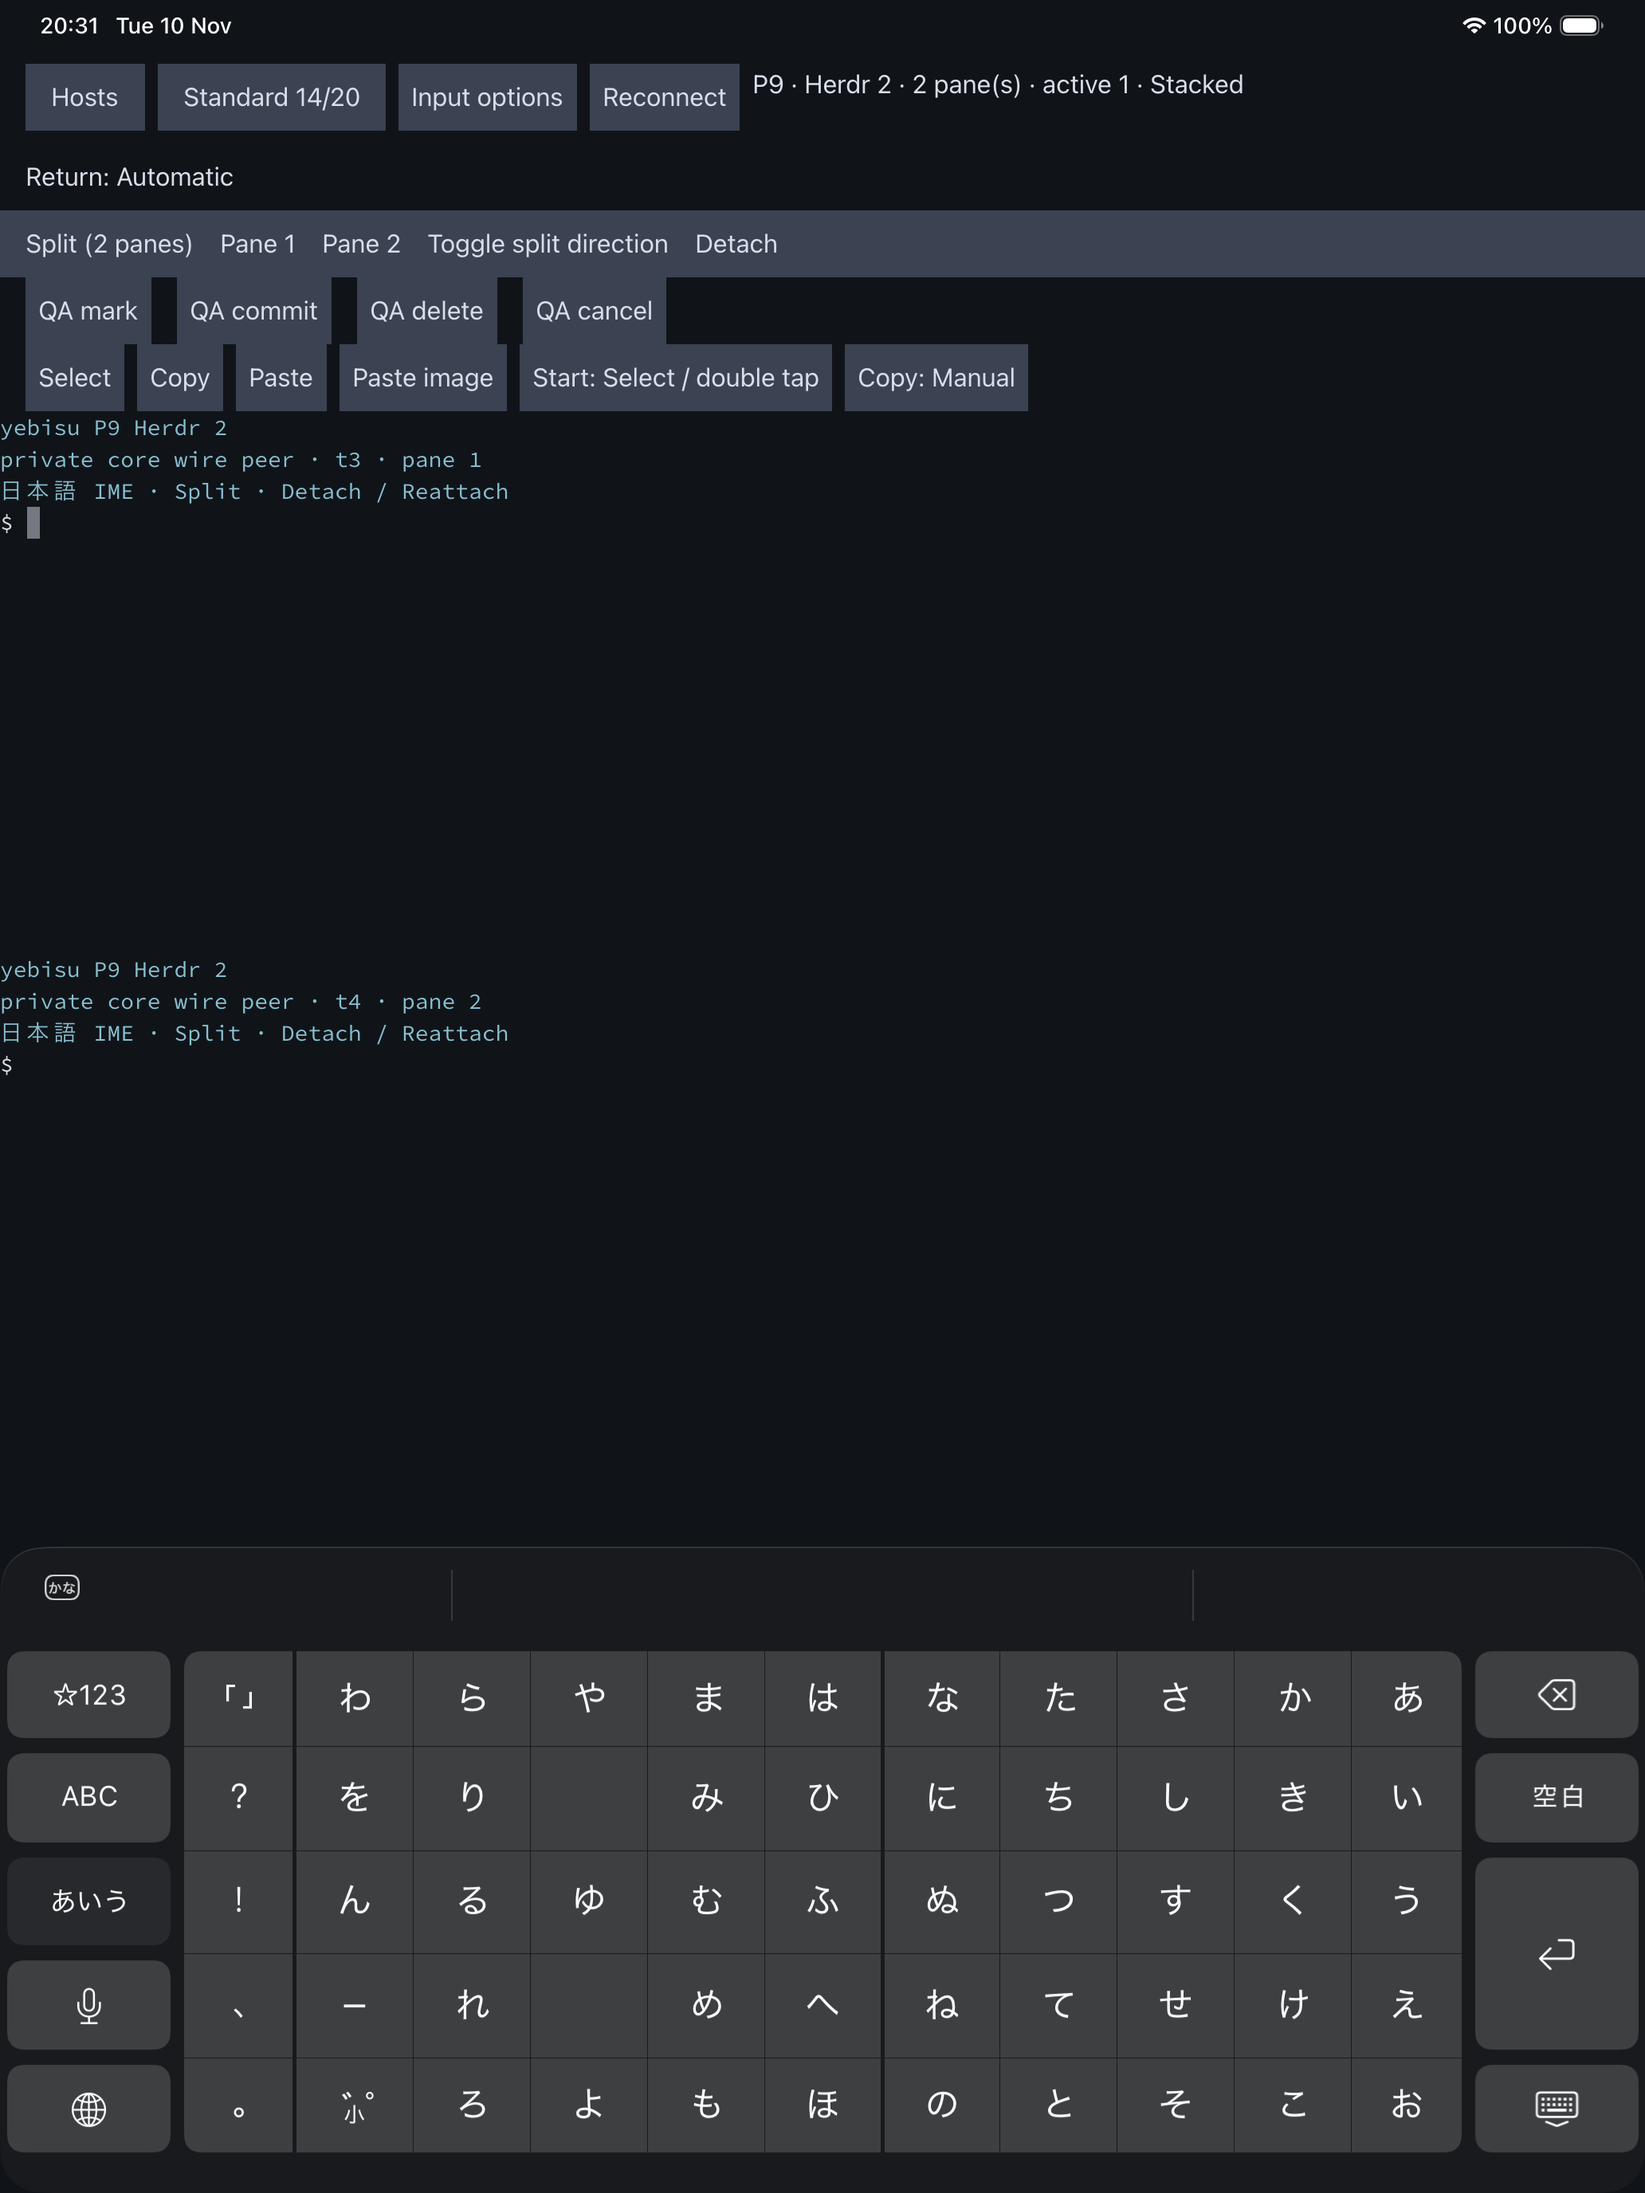
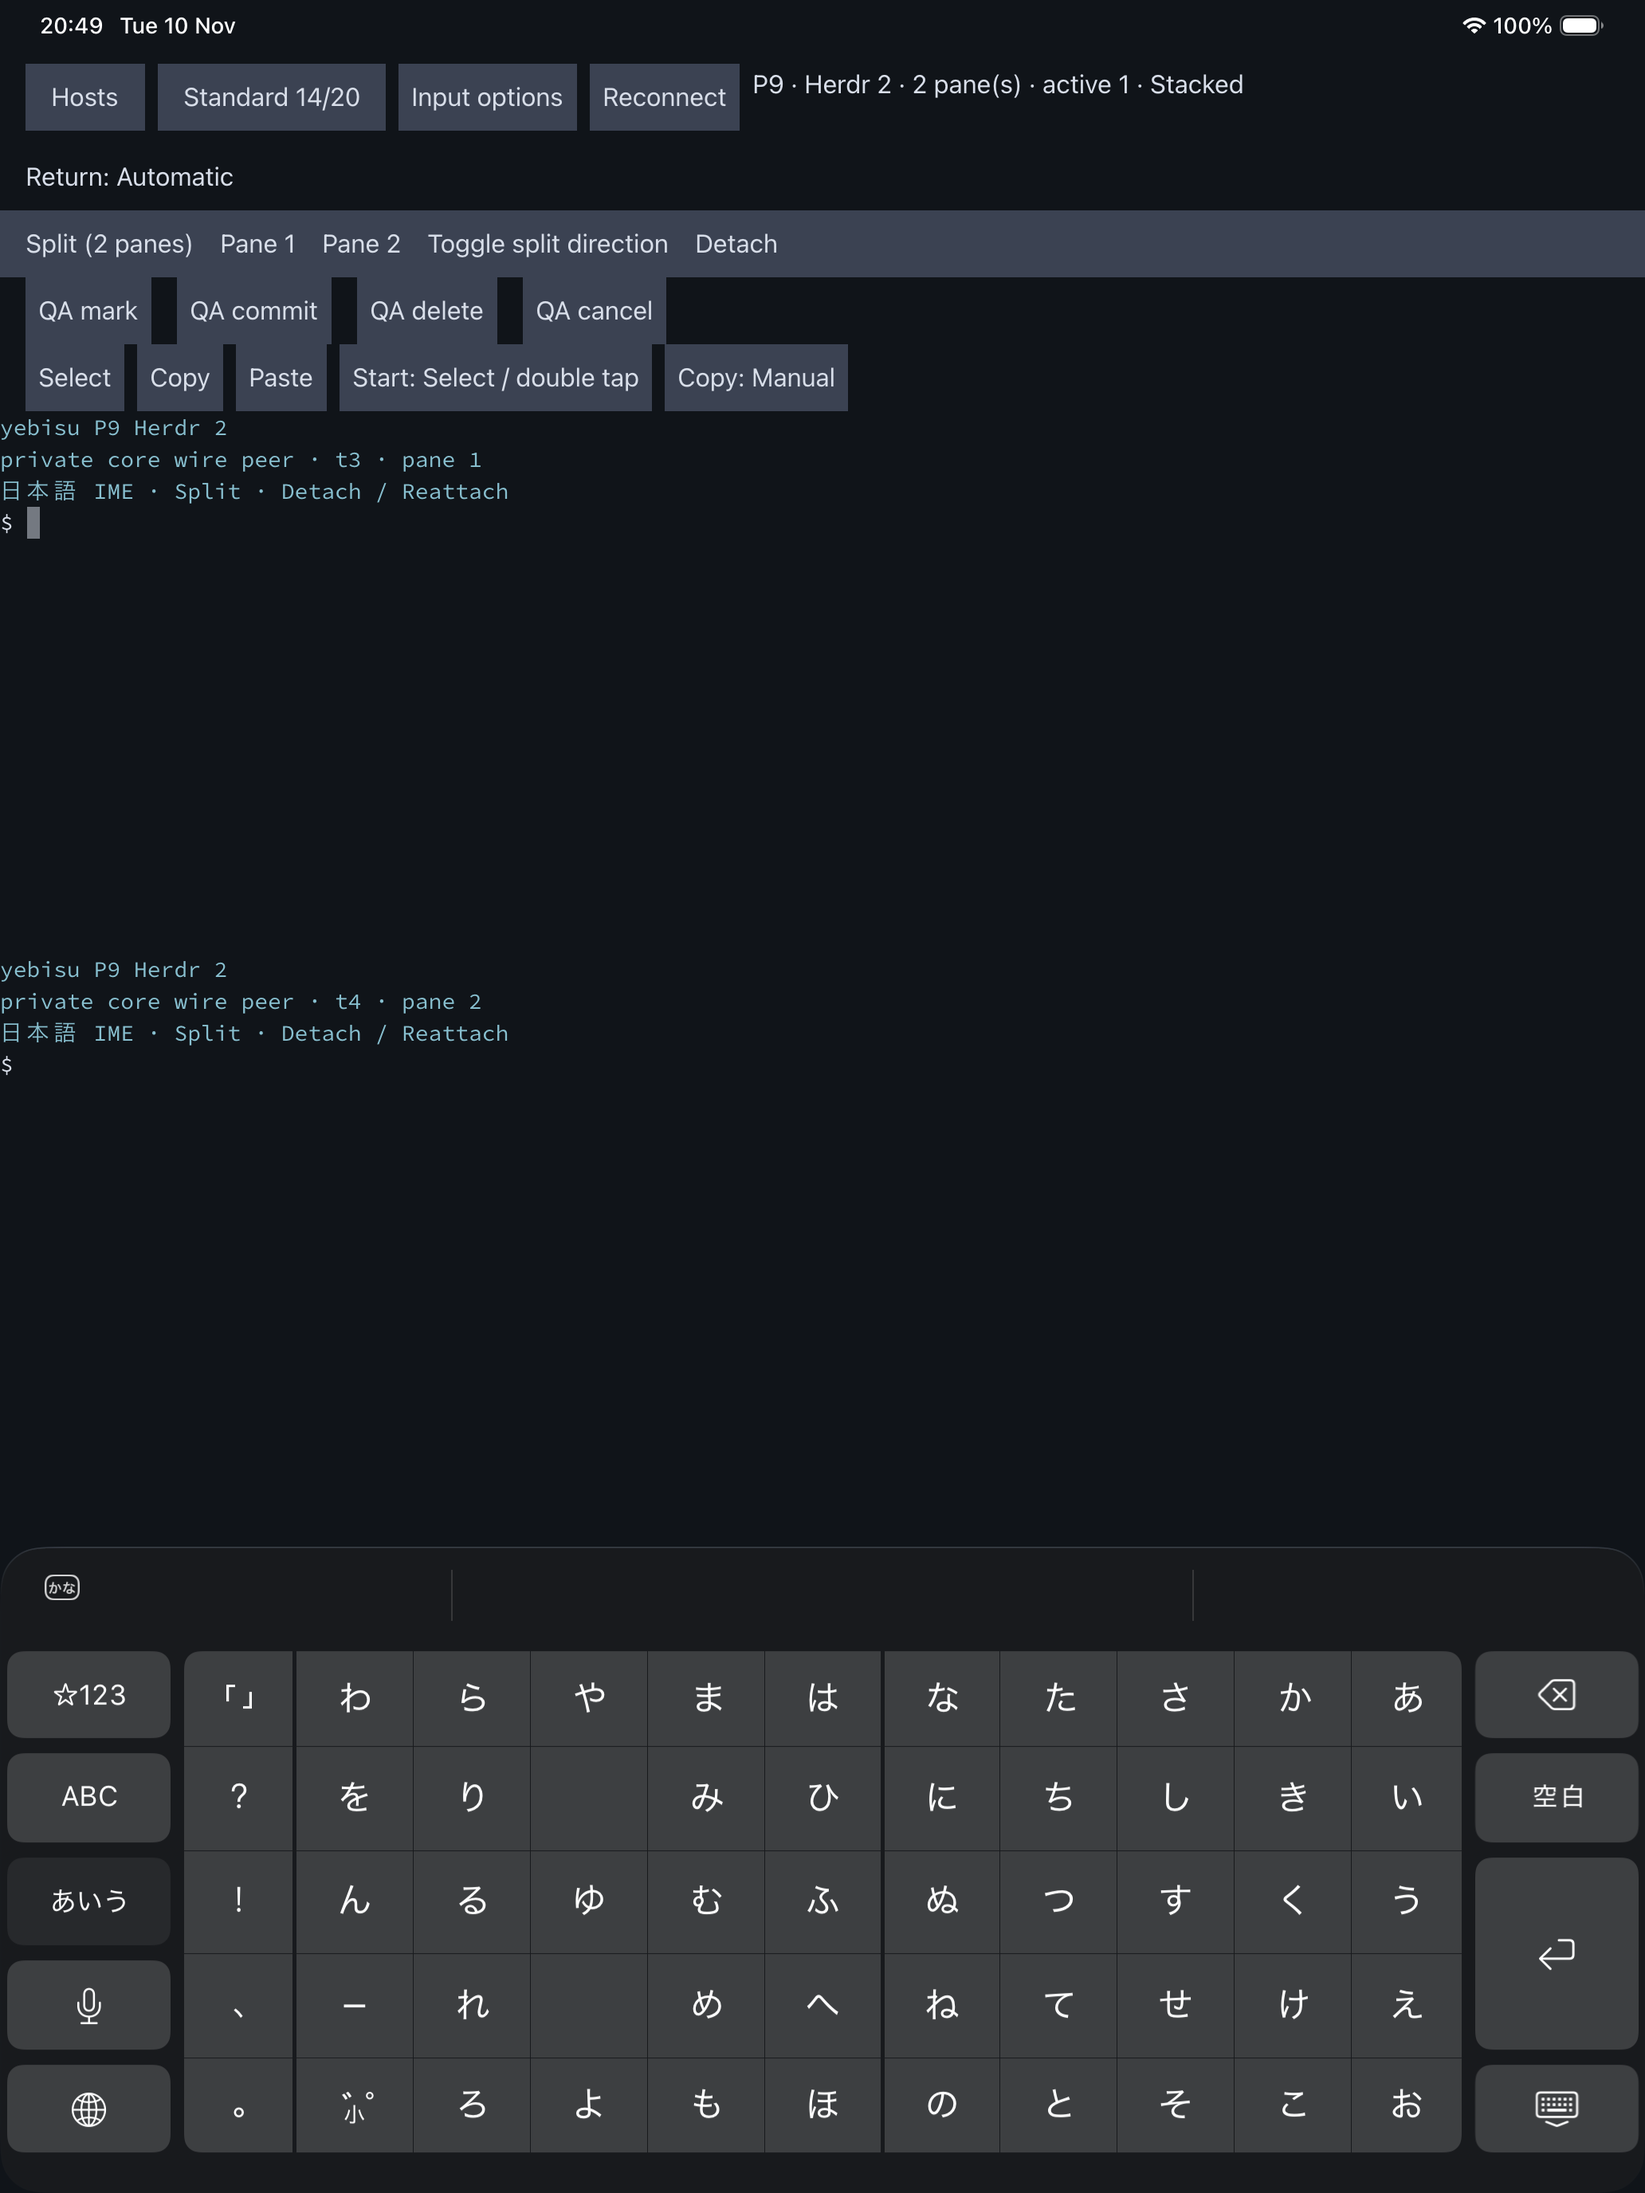
test: prefer toolbar controls when terminal text matches OCR labels

Changed region(s): [[0.2171, 0.1562, 0.6512, 0.1875], [0.093, 0.0, 0.124, 0.0312]]

diff --git a/scripts/ios/smoke-qa/Tests/SmokeQA.swift b/scripts/ios/smoke-qa/Tests/SmokeQA.swift
@@ -367,21 +367,35 @@ final class SmokeQA: XCTestCase {
     }
 
     private func tapText(_ label: String, in app: XCUIApplication, tap: Bool = true) throws {
-        let screenshot = XCUIScreen.main.screenshot()
-        let image = try XCTUnwrap(screenshot.image.cgImage)
-        let request = VNRecognizeTextRequest()
-        request.recognitionLevel = .accurate
-        try VNImageRequestHandler(cgImage: image).perform([request])
-        let observation = try XCTUnwrap(request.results?.first {
-            $0.topCandidates(1).first?.string.contains(label) == true
-        }, "Missing source-defined control: \(label)")
-        let candidate = try XCTUnwrap(observation.topCandidates(1).first)
-        let range = try XCTUnwrap(candidate.string.range(of: label))
-        let box = try XCTUnwrap(candidate.boundingBox(for: range)).boundingBox
-        print("OCR tap \(label) frame=\(app.frame) box=\(box)")
-        if tap {
-            app.coordinate(withNormalizedOffset: CGVector(dx: box.midX, dy: 1-box.midY)).tap()
+        // GPUI controls have no UIKit accessibility nodes. Match source labels,
+        // allowing Vision alternatives and a bounded wait for the next paint.
+        for attempt in 0..<3 {
+            let image = try XCTUnwrap(XCUIScreen.main.screenshot().image.cgImage)
+            let request = VNRecognizeTextRequest()
+            request.recognitionLevel = .accurate
+            request.customWords = [label]
+            try VNImageRequestHandler(cgImage: image).perform([request])
+            // Controls precede the terminal surface. Prefer the uppermost
+            // match so shell output containing e.g. "Detach" cannot steal taps.
+            let candidates = (request.results ?? [])
+                .sorted { $0.boundingBox.midY > $1.boundingBox.midY }
+                .flatMap { $0.topCandidates(5) }
+            for candidate in candidates {
+                guard let range = candidate.string.range(of: label),
+                      let observation = try candidate.boundingBox(for: range) else { continue }
+                let box = observation.boundingBox
+                print("OCR tap \(label) frame=\(app.frame) box=\(box)")
+                if tap {
+                    app.coordinate(withNormalizedOffset: CGVector(dx: box.midX, dy: 1-box.midY)).tap()
+                }
+                return
+            }
+            print("OCR attempt \(attempt): \(candidates.map { $0.string })")
+            sleep(1)
         }
+        save("missing-control")
+        XCTFail("Missing source-defined control: \(label)")
+        throw NSError(domain: "SmokeQA.MissingControl", code: 1)
     }
 
     private func save(_ name: String) {
